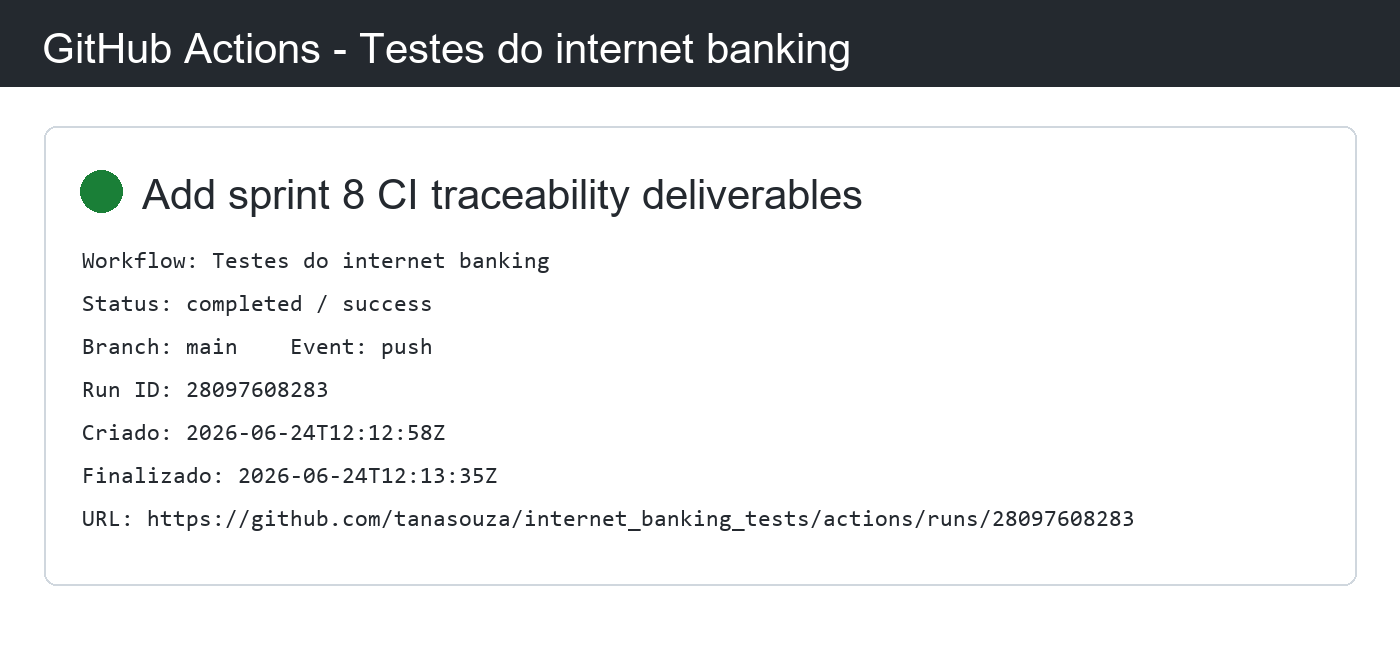
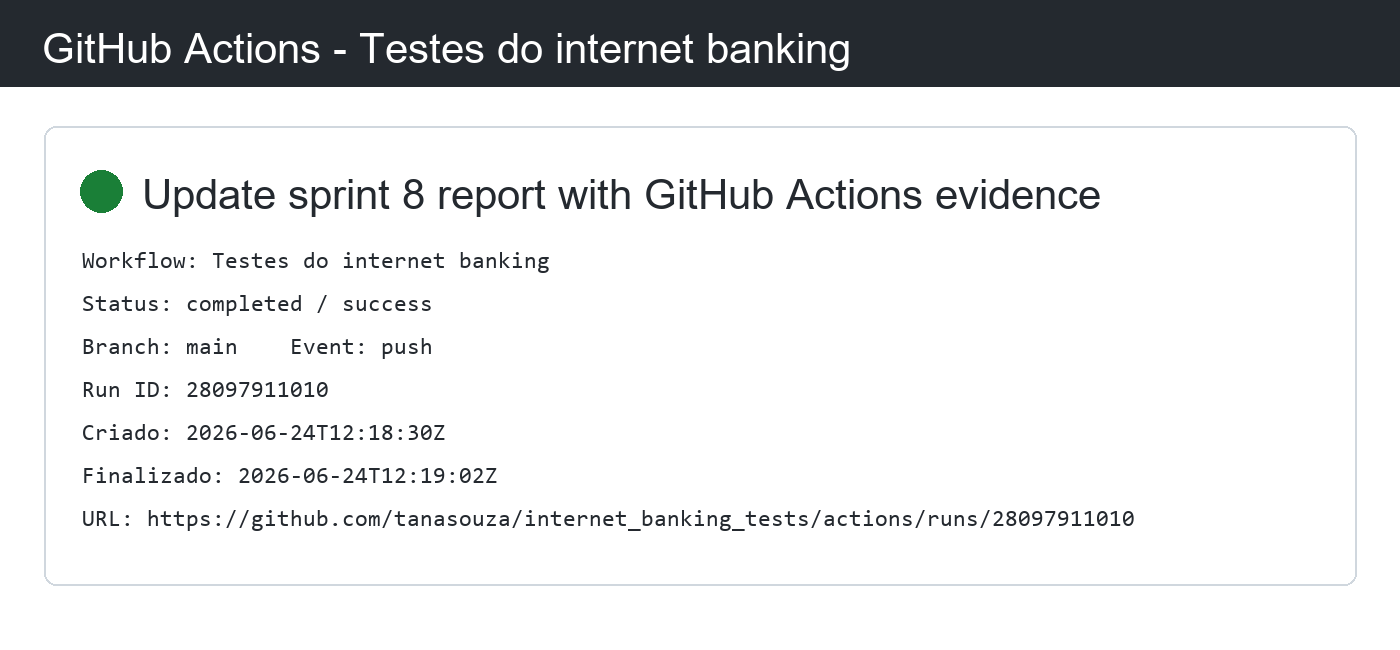
Refresh sprint 8 report with final Actions run

diff --git a/criar_relatorio_sprint8_modelo.py b/criar_relatorio_sprint8_modelo.py
@@ -12,7 +12,7 @@ ROOT = Path(__file__).resolve().parent
 OUTPUT = ROOT / "Entrega_Sprint_8_ISO_Schemathesis_CI.docx"
 ASSETS = ROOT / "relatorio_assets"
 ASSETS.mkdir(exist_ok=True)
-ACTIONS_URL = "https://github.com/tanasouza/internet_banking_tests/actions/runs/28097608283"
+ACTIONS_URL = "https://github.com/tanasouza/internet_banking_tests/actions/runs/28097911010"
 
 
 def read_text(path):
@@ -101,14 +101,14 @@ def create_actions_print():
     draw.text((42, 24), "GitHub Actions - Testes do internet banking", font=title, fill="#ffffff")
     draw.rounded_rectangle((44, 126, 1356, 585), radius=12, outline="#d0d7de", width=2, fill="#ffffff")
     draw.ellipse((80, 170, 122, 212), fill="#1a7f37")
-    draw.text((142, 170), "Add sprint 8 CI traceability deliverables", font=title, fill="#24292f")
+    draw.text((142, 170), "Update sprint 8 report with GitHub Actions evidence", font=title, fill="#24292f")
     lines = [
         "Workflow: Testes do internet banking",
         "Status: completed / success",
         "Branch: main    Event: push",
-        "Run ID: 28097608283",
-        "Criado: 2026-06-24T12:12:58Z",
-        "Finalizado: 2026-06-24T12:13:35Z",
+        "Run ID: 28097911010",
+        "Criado: 2026-06-24T12:18:30Z",
+        "Finalizado: 2026-06-24T12:19:02Z",
         f"URL: {ACTIONS_URL}",
     ]
     y = 250
@@ -275,13 +275,13 @@ def add_ci(doc):
     heading(doc, "3.1. URL publica do repositorio no GitHub")
     p(
         doc,
-        "Repositorio publico: https://github.com/tanasouza/internet_banking_tests. O workflow executado esta disponivel em: https://github.com/tanasouza/internet_banking_tests/actions/runs/28097608283.",
+        "Repositorio publico: https://github.com/tanasouza/internet_banking_tests. O workflow executado esta disponivel em: https://github.com/tanasouza/internet_banking_tests/actions/runs/28097911010.",
     )
 
     heading(doc, "3.2. Print da aba Actions mostrando o ultimo run")
     p(
         doc,
-        "O ultimo run do GitHub Actions foi executado no branch main, por push, com status completed/success. O workflow foi Testes do internet banking e durou 37 segundos, de 2026-06-24T12:12:58Z a 2026-06-24T12:13:35Z.",
+        "O ultimo run do GitHub Actions foi executado no branch main, por push, com status completed/success. O workflow foi Testes do internet banking e durou 32 segundos, de 2026-06-24T12:18:30Z a 2026-06-24T12:19:02Z.",
     )
     print_path = create_actions_print()
     paragraph = doc.add_paragraph()

diff --git a/matriz_rastreabilidade.md b/matriz_rastreabilidade.md
@@ -3,7 +3,7 @@
 | ID | Requisito | Caso de teste | Artefato | Evidencia |
 |---|---|---|---|---|
 | TC-S1-001 | REQ-TRF-001 - Transferir valor total disponivel quando ha saldo suficiente | test_transferencia_saldo_igual_valor | test_ia_gerado.py / test_flask_client.py | PASSED em 0.006s |
-| TC-S3-001 | REQ-TRF-002 - Recusar valor zero ou negativo | test_transferencia_valor_nao_positivo_retorna_422 | test_hypothesis.py | PASSED em 0.086s |
+| TC-S3-001 | REQ-TRF-002 - Recusar valor zero ou negativo | test_transferencia_valor_nao_positivo_retorna_422 | test_hypothesis.py | PASSED em 0.088s |
 | TC-S4-001 | REQ-TRF-003 - Recusar conta inexistente | test_transferencia_conta_origem_inexistente | test_flask_client.py | PASSED em 0.002s |
-| TC-S5-001 | REQ-TRF-004 - Aceitar qualquer valor positivo com saldo suficiente | test_aceitar_transferencia_de_pequeno_valor_positivo | features/transferencia.feature | PASSED em 0.007s |
+| TC-S5-001 | REQ-TRF-004 - Aceitar qualquer valor positivo com saldo suficiente | test_aceitar_transferencia_de_pequeno_valor_positivo | features/transferencia.feature | PASSED em 0.008s |
 | TC-S5-002 | REQ-TRF-005 - Recusar transferencia com campo obrigatorio ausente | test_recusar_transferencia_sem_conta_de_destino | features/transferencia.feature | PASSED em 0.004s |